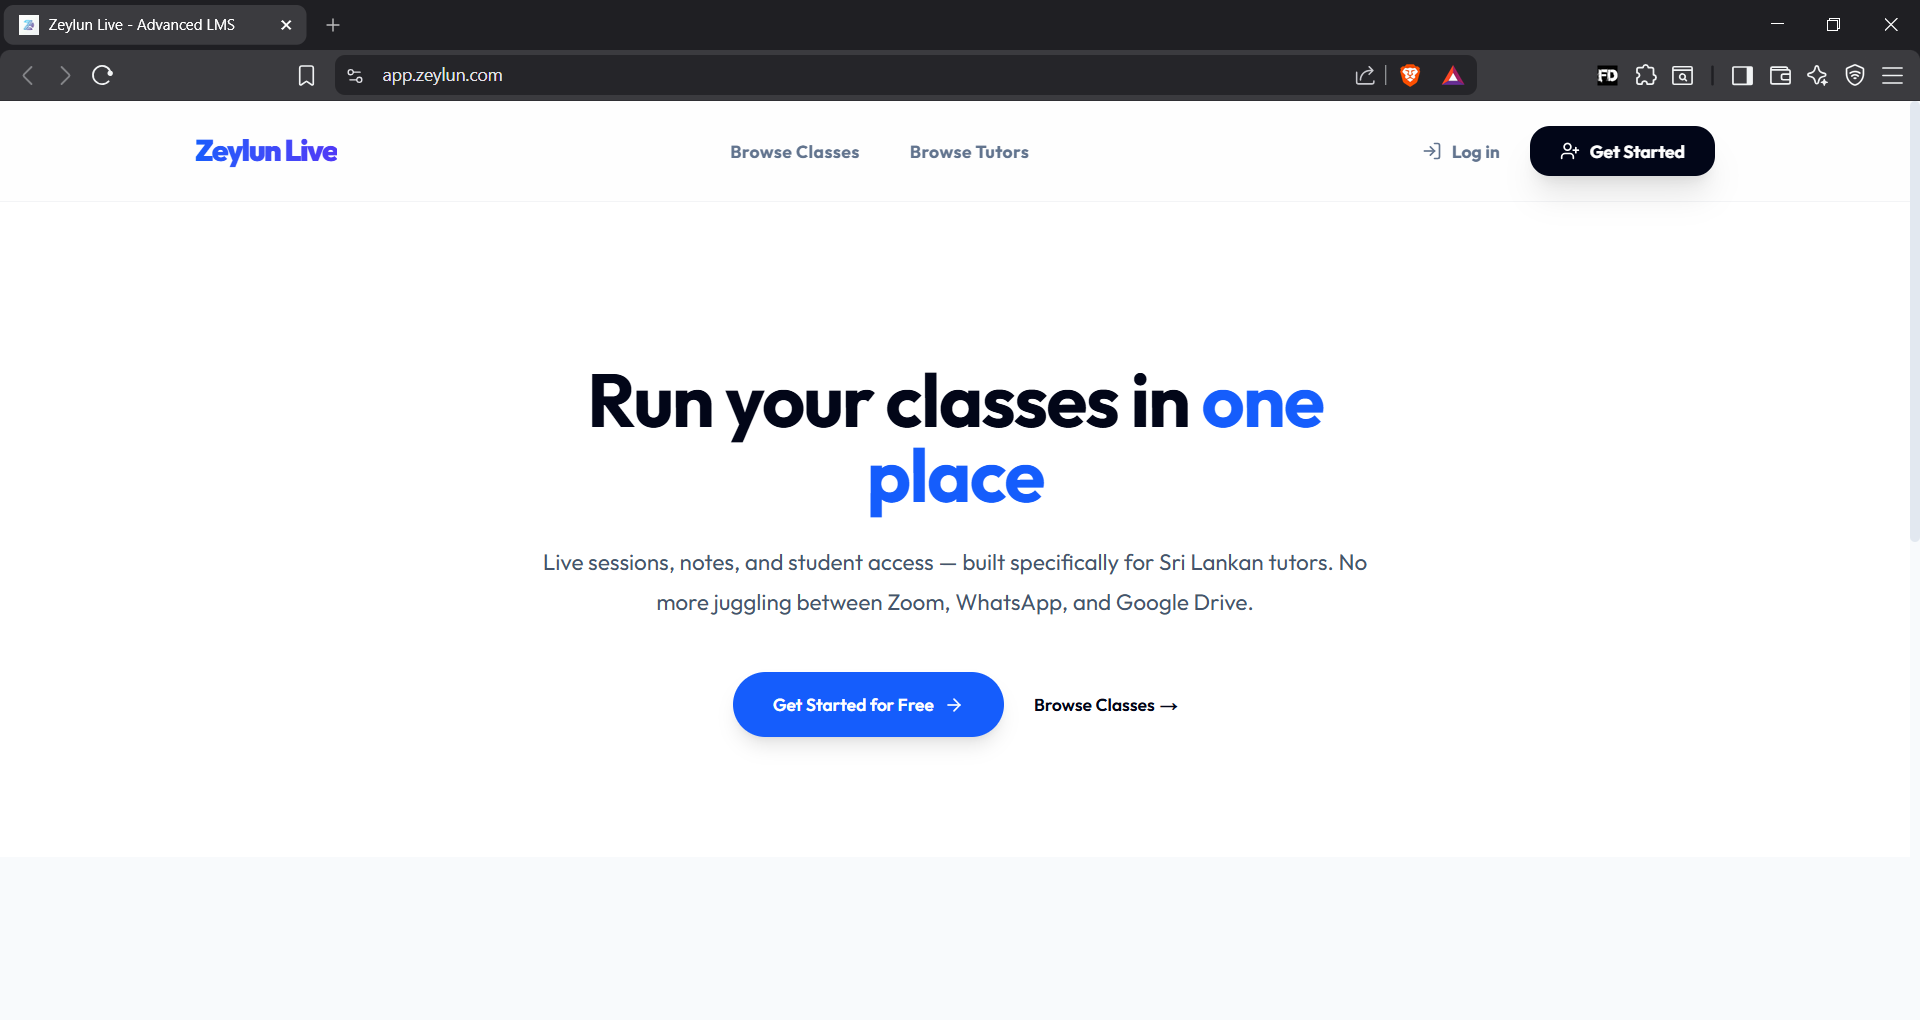
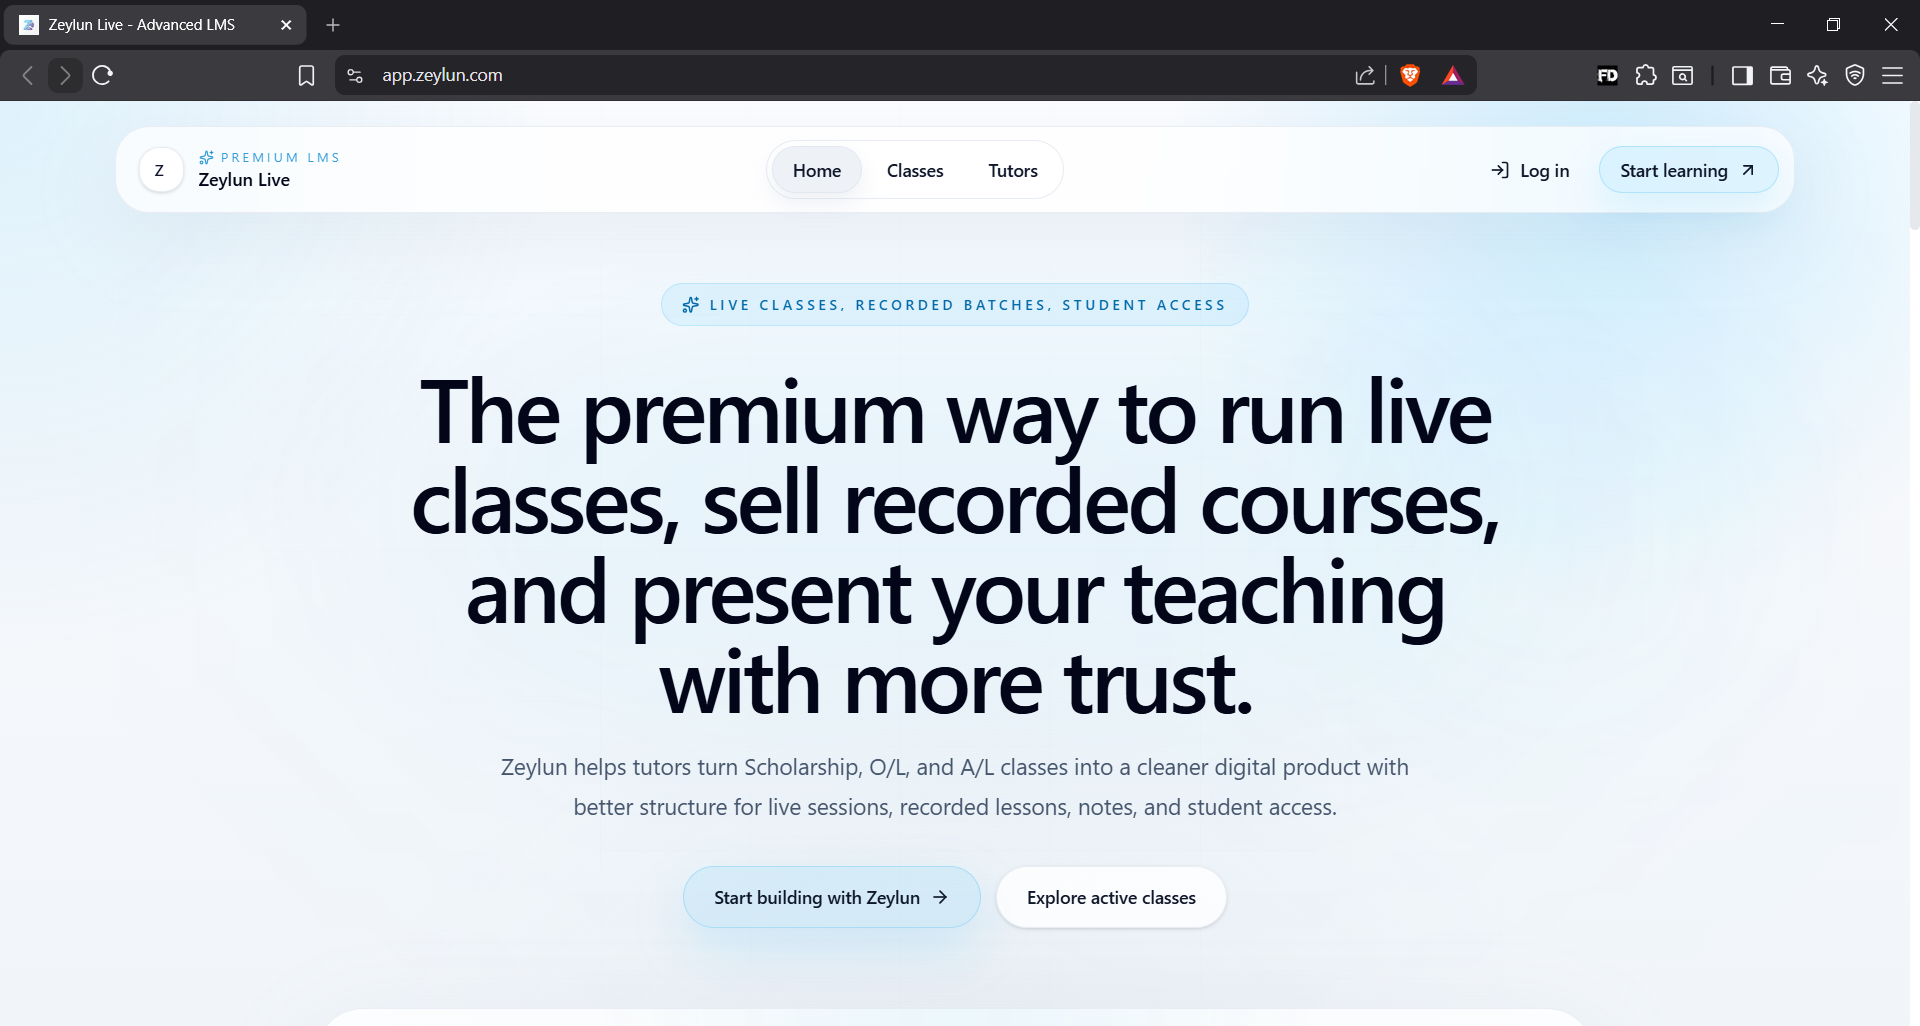
Add Product Section and change meta data

diff --git a/src/app/products/page.tsx b/src/app/products/page.tsx
@@ -1,0 +1,116 @@
+"use client";
+
+import { motion } from "framer-motion";
+import { Container } from "@/components/ui/Container";
+import { ArrowRight } from "lucide-react";
+import Link from "next/link";
+import Image from "next/image";
+import { CTASection } from "@/components/home/CTASection";
+
+const products = [
+  {
+    title: "Zeylun LMS",
+    description: "A modern learning management system designed for tutors, educational businesses, and training providers to manage classes, students, learning content, and growth.",
+    category: "EdTech",
+    tags: ["Course Management", "Student Portal", "Payments", "Analytics"],
+    link: "https://app.zeylun.com",
+    cta: "Request Demo",
+    image: "/zeylun-lms.png",
+  },
+  {
+    title: "Zeylun Outreach System",
+    description: "A streamlined outreach and lead management system designed to help teams manage leads, follow-ups, communication flow, and sales activity more efficiently.",
+    category: "CRM & Sales",
+    tags: ["Lead Management", "Pipelines", "Automation", "Analytics"],
+    link: "https://outreach.zeylun.com",
+    cta: "Request Demo",
+    image: "/outreach-zeylun.png", // Temporarily using available image as placeholder
+  },
+];
+
+export default function ProductsPage() {
+  return (
+    <div className="relative min-h-screen pt-32 pb-20 overflow-hidden">
+      <div className="absolute inset-0 grid-background opacity-10 -z-10" />
+      
+      <Container>
+        <div className="max-w-4xl mx-auto text-center">
+          <motion.h1
+            initial={{ opacity: 0, y: 20 }}
+            animate={{ opacity: 1, y: 0 }}
+            transition={{ duration: 0.8 }}
+            className="text-4xl font-bold tracking-tight text-white sm:text-6xl lg:text-7xl font-sora"
+          >
+            Our <span className="text-gradient hover:opacity-80 transition-opacity">Products.</span>
+          </motion.h1>
+          <motion.p
+            initial={{ opacity: 0, y: 20 }}
+            animate={{ opacity: 1, y: 0 }}
+            transition={{ duration: 0.8, delay: 0.2 }}
+            className="mt-6 text-xl text-zinc-400 font-light max-w-2xl mx-auto leading-relaxed"
+          >
+            Internal software products and solutions built by Zeylun to help businesses and educational providers operate more efficiently.
+          </motion.p>
+        </div>
+
+        <div className="mt-24 grid grid-cols-1 lg:grid-cols-2 gap-12">
+          {products.map((product, i) => (
+            <motion.div
+              key={product.title}
+              initial={{ opacity: 0, y: 30 }}
+              animate={{ opacity: 1, y: 0 }}
+              transition={{ duration: 0.8, delay: 0.1 * i }}
+              className="group relative"
+            >
+              <div className="glass-card !p-0 overflow-hidden border-white/5 hover:border-white/10 transition-all flex flex-col h-full bg-white/5 rounded-2xl">
+                <div className="relative aspect-[16/9] w-full overflow-hidden border-b border-white/5">
+                  <Image
+                    src={product.image}
+                    alt={product.title}
+                    fill
+                    className="object-cover transition-transform duration-700 group-hover:scale-105"
+                  />
+                  <div className="absolute inset-0 bg-gradient-to-t from-black/80 via-black/20 to-transparent opacity-0 group-hover:opacity-100 transition-opacity flex items-end p-6">
+                    <Link 
+                      href={product.link}
+                      className="btn-primary !px-6 !py-2 text-sm flex items-center"
+                      {...(product.link.startsWith("http") ? { target: "_blank", rel: "noopener noreferrer" } : {})}
+                    >
+                      {product.cta} <ArrowRight className="ml-2 h-4 w-4" />
+                    </Link>
+                  </div>
+                </div>
+                
+                <div className="p-8 flex flex-col flex-grow">
+                  <div className="flex justify-between items-start mb-6">
+                    <span className="px-3 py-1 text-xs font-medium text-brand-blue bg-brand-blue/10 rounded-full uppercase tracking-wider">
+                      {product.category}
+                    </span>
+                  </div>
+                  <h3 className="text-2xl font-bold text-white font-sora mb-4">{product.title}</h3>
+                  <p className="text-zinc-400 font-light text-base mb-8 flex-grow leading-relaxed">
+                    {product.description}
+                  </p>
+                  
+                  <div className="mt-auto">
+                    <div className="flex flex-wrap gap-2 mb-2">
+                      {product.tags.map(tag => (
+                        <span key={tag} className="text-xs font-medium text-zinc-500 bg-black/50 px-3 py-1.5 rounded-md border border-white/5">
+                          {tag}
+                        </span>
+                      ))}
+                    </div>
+                  </div>
+                </div>
+              </div>
+            </motion.div>
+          ))}
+        </div>
+      </Container>
+      
+      <div className="mt-32">
+        <CTASection />
+      </div>
+    </div>
+  );
+}

diff --git a/src/components/home/FeaturedWork.tsx b/src/components/home/FeaturedWork.tsx
@@ -30,9 +30,9 @@ export function FeaturedWork() {
       <Container>
         <div className="flex flex-col md:flex-row md:items-end justify-between mb-16 gap-8">
           <div className="max-w-2xl">
-            <h2 className="text-base font-semibold leading-7 text-brand-blue uppercase tracking-widest">Featured Work</h2>
+            <h2 className="text-base font-semibold leading-7 text-brand-blue uppercase tracking-widest">Selected Work</h2>
             <p className="mt-2 text-3xl font-bold tracking-tight text-white sm:text-5xl font-sora">
-              Results that matter.
+              Client Projects.
             </p>
           </div>
           <button className="btn-secondary group">
@@ -51,26 +51,26 @@ export function FeaturedWork() {
               viewport={{ once: true }}
             >
               <Link href={project.href} target="_blank" rel="noopener noreferrer" className="group cursor-pointer block">
-              <div className={`aspect-[16/9] w-full rounded-2xl bg-gradient-to-br ${project.color} border border-white/5 overflow-hidden relative mb-8 flex items-center justify-center transition-all group-hover:border-white/20`}>
-                <div className="absolute inset-0 grid-background opacity-20" />
-                {/* Project Image */}
-                <div className="absolute bottom-[-10%] right-[-5%] w-[85%] h-[85%] rounded-xl shadow-[0_0_30px_rgba(0,0,0,0.5)] transition-transform duration-500 group-hover:translate-y-[-5%] group-hover:translate-x-[-2%] overflow-hidden border border-white/10 bg-zinc-900">
-                  <div className="w-full h-8 bg-zinc-900/90 border-b border-white/5 flex items-center px-4 space-x-2">
-                    <div className="w-2.5 h-2.5 rounded-full bg-red-500/80" />
-                    <div className="w-2.5 h-2.5 rounded-full bg-yellow-500/80" />
-                    <div className="w-2.5 h-2.5 rounded-full bg-green-500/80" />
+                <div className={`aspect-[16/9] w-full rounded-2xl bg-gradient-to-br ${project.color} border border-white/5 overflow-hidden relative mb-8 flex items-center justify-center transition-all group-hover:border-white/20`}>
+                  <div className="absolute inset-0 grid-background opacity-20" />
+                  {/* Project Image */}
+                  <div className="absolute bottom-[-10%] right-[-5%] w-[85%] h-[85%] rounded-xl shadow-[0_0_30px_rgba(0,0,0,0.5)] transition-transform duration-500 group-hover:translate-y-[-5%] group-hover:translate-x-[-2%] overflow-hidden border border-white/10 bg-zinc-900">
+                    <div className="w-full h-8 bg-zinc-900/90 border-b border-white/5 flex items-center px-4 space-x-2">
+                      <div className="w-2.5 h-2.5 rounded-full bg-red-500/80" />
+                      <div className="w-2.5 h-2.5 rounded-full bg-yellow-500/80" />
+                      <div className="w-2.5 h-2.5 rounded-full bg-green-500/80" />
+                    </div>
+                    <img src={project.image} alt={project.title} className="w-full h-full object-cover object-top opacity-90 group-hover:opacity-100 transition-opacity" />
                   </div>
-                  <img src={project.image} alt={project.title} className="w-full h-full object-cover object-top opacity-90 group-hover:opacity-100 transition-opacity" />
                 </div>
-              </div>
-              <div>
-                <span className="text-sm font-medium text-brand-blue font-sora mb-2 flex items-center gap-2 block">
-                  {project.category}
-                  <ArrowUpRight className="h-3 w-3 opacity-0 -translate-x-2 transition-all group-hover:opacity-100 group-hover:translate-x-0" />
-                </span>
-                <h3 className="text-2xl font-bold text-white mb-3 font-sora">{project.title}</h3>
-                <p className="text-zinc-400 text-sm leading-6 max-w-md">{project.description}</p>
-              </div>
+                <div>
+                  <span className="text-sm font-medium text-brand-blue font-sora mb-2 flex items-center gap-2 block">
+                    {project.category}
+                    <ArrowUpRight className="h-3 w-3 opacity-0 -translate-x-2 transition-all group-hover:opacity-100 group-hover:translate-x-0" />
+                  </span>
+                  <h3 className="text-2xl font-bold text-white mb-3 font-sora">{project.title}</h3>
+                  <p className="text-zinc-400 text-sm leading-6 max-w-md">{project.description}</p>
+                </div>
               </Link>
             </motion.div>
           ))}

diff --git a/src/app/layout.tsx b/src/app/layout.tsx
@@ -5,11 +5,15 @@ import { Footer } from "@/components/layout/Footer";
 
 export const metadata: Metadata = {
   metadataBase: new URL("https://zeylun.com"),
+
   title: {
     default: "Zeylun | Digital Products & Scalable Business Systems",
     template: "%s | Zeylun",
   },
-  description: "Zeylun engineers high-performance websites, custom business platforms, and scalable digital systems for global industry leaders.",
+
+  description:
+    "Zeylun builds high-performance websites, custom platforms, and scalable digital systems for modern businesses worldwide. From startups to growing companies, we engineer solutions that drive real results.",
+
   keywords: [
     "digital agency",
     "web development",
@@ -17,21 +21,26 @@ export const metadata: Metadata = {
     "ERP systems",
     "LMS platforms",
     "business automation",
-    "premium software development",
-    "Sri Lanka software company",
-    "global digital consultant",
+    "software company Sri Lanka",
+    "global software development",
+    "Next.js development",
+    "startup product development",
   ],
+
   authors: [{ name: "Zeylun", url: "https://zeylun.com" }],
   creator: "Zeylun",
   publisher: "Zeylun",
+
   formatDetection: {
     email: false,
     address: false,
     telephone: false,
   },
+
   openGraph: {
     title: "Zeylun | Digital Products & Scalable Business Systems",
-    description: "Engineering high-performance websites and custom business platforms for global industry leaders.",
+    description:
+      "We design and build modern websites, platforms, and business systems that help companies scale efficiently.",
     url: "https://zeylun.com",
     siteName: "Zeylun",
     locale: "en_US",
@@ -41,16 +50,19 @@ export const metadata: Metadata = {
         url: "/og-image.png",
         width: 1200,
         height: 630,
-        alt: "Zeylun - Engineering Digital Excellence",
+        alt: "Zeylun — Digital Products & Systems",
       },
     ],
   },
+
   twitter: {
     card: "summary_large_image",
     title: "Zeylun | Digital Products & Scalable Business Systems",
-    description: "Engineering high-performance websites and custom business platforms for global industry leaders.",
+    description:
+      "High-performance websites, custom platforms, and scalable digital systems built for modern businesses.",
     images: ["/og-image.png"],
   },
+
   robots: {
     index: true,
     follow: true,
@@ -62,11 +74,11 @@ export const metadata: Metadata = {
       "max-snippet": -1,
     },
   },
+
   alternates: {
     canonical: "https://zeylun.com",
   },
 };
-
 export const viewport: Viewport = {
   themeColor: "#000000",
   width: "device-width",

diff --git a/src/app/work/page.tsx b/src/app/work/page.tsx
@@ -7,20 +7,20 @@ import Image from "next/image";
 
 const projects = [
   {
-    title: "Zeylun LMS",
-    description: "A comprehensive learning management system for schools and educators featuring online exams, student management, and payments.",
-    image: "/zeylun-lms.png",
-    category: "EdTech",
-    tags: ["React", "Next.js", "Node.js", "PostgreSQL"],
-    link: "https://lms.zeylun.com",
-  },
-  {
     title: "Joyful Tours",
     description: "Luxury travel and tourism platform showcasing curated travel packages across Sri Lanka.",
     image: "/joyful-tours.png",
     category: "Travel",
     tags: ["React", "Next.js", "Tailwind CSS", "CMS"],
     link: "https://joyfultours.lk",
+  },
+  {
+    title: "Zeylun LMS",
+    description: "A comprehensive learning management system for schools and educators featuring online exams, student management, and payments.",
+    image: "/zeylun-lms.png",
+    category: "EdTech",
+    tags: ["React", "Next.js", "Node.js", "PostgreSQL"],
+    link: "https://app.zeylun.com",
   },
 ];
 
@@ -45,7 +45,7 @@ export default function WorkPage() {
             transition={{ duration: 0.8, delay: 0.2 }}
             className="mt-6 text-xl text-zinc-400 font-light max-w-2xl mx-auto leading-relaxed"
           >
-            A collection of high-performance digital products and systems crafted by Zeylun to solve real-world problems.
+            A curated selection of client projects crafted by Zeylun to solve real-world problems.
           </motion.p>
         </div>
 

diff --git a/src/app/products/layout.tsx b/src/app/products/layout.tsx
@@ -1,0 +1,14 @@
+import type { Metadata } from "next";
+
+export const metadata: Metadata = {
+  title: "Zeylun Products | LMS & Outreach Systems",
+  description: "Explore Zeylun products including Zeylun LMS and Zeylun Outreach System, built to help businesses and educational providers operate more efficiently.",
+};
+
+export default function ProductsLayout({
+  children,
+}: {
+  children: React.ReactNode;
+}) {
+  return <>{children}</>;
+}

diff --git a/src/components/layout/Navbar.tsx b/src/components/layout/Navbar.tsx
@@ -11,6 +11,7 @@ import { AnimatePresence } from "framer-motion";
 const navLinks = [
   { name: "Home", href: "/" },
   { name: "Services", href: "/services" },
+  { name: "Products", href: "/products" },
   { name: "Ecosystem", href: "/ecosystem" },
   { name: "Work", href: "/work" },
   { name: "Contact", href: "/contact" },
